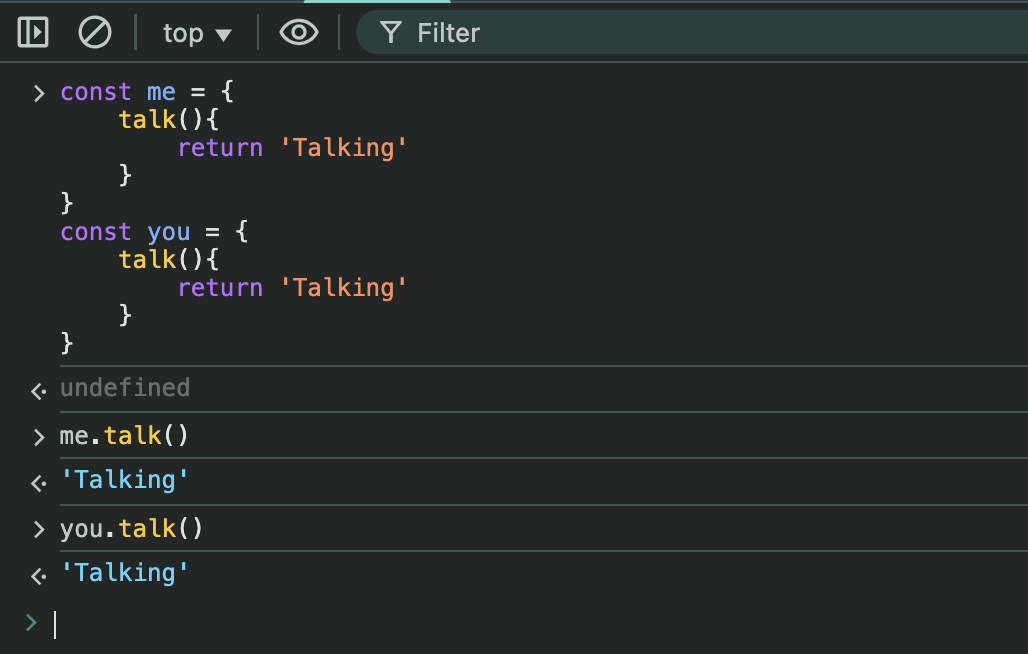
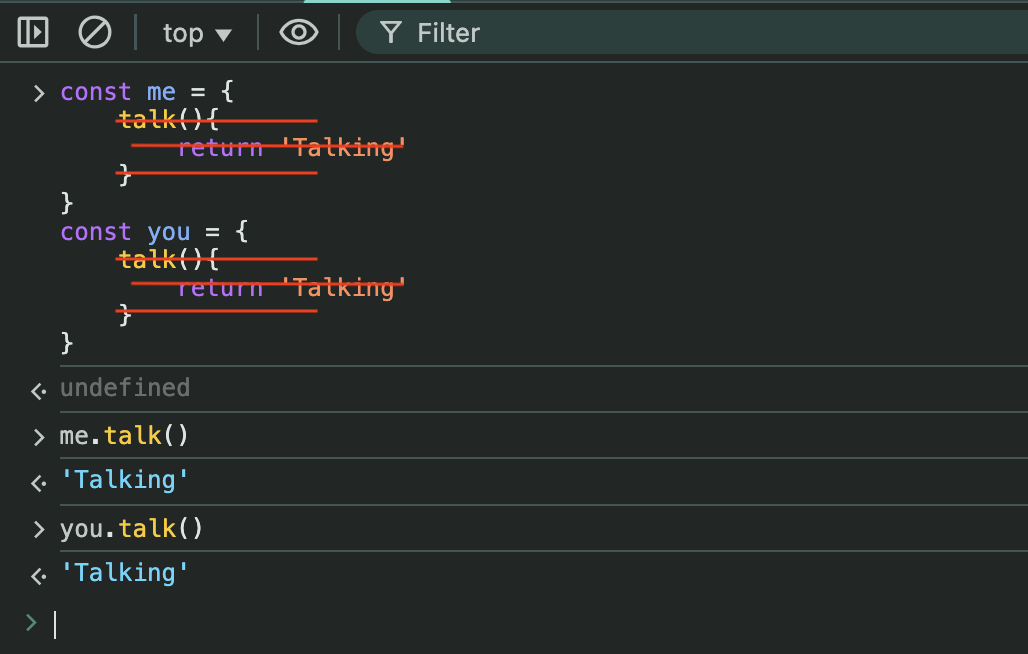
main

Changed region(s): [[0.1245, 0.1835, 0.4047, 0.2752], [0.1245, 0.4281, 0.4047, 0.4893], [0.1245, 0.367, 0.3113, 0.3976]]

diff --git a/js/core/inject-content.js b/js/core/inject-content.js
@@ -6,7 +6,7 @@ import { getLastFocusedLink, setLastCLICKEDLink,getLastCLICKEDLink } from "../na
 let lastClickedSideBarLink = null
 import { initCopyCode } from "../ui/copy-code.js";
 import { sideBarAsARRAY } from "../nav/sidebar-nav.js";
-import { initStepNav,updateSteps } from "../nav/step-nav.js";
+import { getSteps, initStepNav,updateSteps } from "../nav/step-nav.js";
 import { refreshImages } from "../ui/toggle-img-sizes.js";
 const navTitleH1 = document.querySelector('#navTitle h1')
 export const endNxtBtn = document.querySelector('#endNxtBtn')
@@ -43,33 +43,34 @@ function handleInjectContentBtnsContainer(e){
         })
     }
 }
+function handleNxtLessonBtn(key){
+    if (key === 'a') {
+        const steps = getSteps()
+        steps[steps.length - 1].focus()
+    }
+    if (key === 'f') {
+        const steps = getSteps()
+        steps[0].focus()
+    }
+    if (key === 'm') {
+        mainTargetDiv.focus()
+        document.querySelector('body').scrollTo(0, 0)
+    }
+    if (key === 'enter') {
+        mainTargetDiv.scrollTo(0, 0)
+    }
+}
 export function initInjectContentListeners(){
     endNxtBtn.addEventListener('click', handleInjectContentBtnsContainer)
     prevBtn.addEventListener('click', handleInjectContentBtnsContainer)
     // Make it so 'a' goes to steps[step.length - 1], when endNxtLesson or prevLessonBtn has focus and 'a' is pressed
     endNxtBtn.addEventListener('keydown', e => {
         const key = e.key.toLowerCase()
-        if(key === 'm'){
-            mainTargetDiv.focus()
-            document.querySelector('body').scrollTo(0,0)
-        }
-        if(key === 'enter'){
-            mainTargetDiv.scrollTo(0, 0)
-            // document.querySelector('body').scrollTo(0, 0)
-        }
-        
+        handleNxtLessonBtn(key)
     })
     prevBtn.addEventListener('keydown', e => {
         const key = e.key.toLowerCase()
-        if(key === 'm'){
-            mainTargetDiv.focus()
-            mainTargetDiv.scrollTo(0, 0)
-        }
-        if (key === 'enter') {
-            mainTargetDiv.scrollTo(0, 0)
-            // document.querySelector('body').scrollTo(0, 0)
-        }
-        
+        handleNxtLessonBtn(key)
     })
     
     let linkClicked = false

diff --git a/01-jsInheritance/side-bar-links-pages/01/01Og.html b/01-jsInheritance/side-bar-links-pages/01/01Og.html
@@ -18,19 +18,24 @@
                     </div>
                     <h4>01</h4>
                     <p>
-                       <span class="lg r">DON'T</span> <span class="md ">duplicate</span> <span class="md r">Code</span>
+                       <strong>"Inheritance"</strong> can be used with <code class="lsg">Objecs</code> and <code class="b">classes</code>
                     </p>
                     <div  class="step-txt">
-                        
+                        <p>
+                            <code class="bad">code </code> below shows inefficent code,
+                        </p>
+                        <p>
+                            <code class="bad">DON't</code> make duplicate code like the <span class="gr">talk()</span> method in both objects
+                        </p>
                         <div class="code-container ">
                             <pre tabindex="0" class="copy-code bbad">
 const <span class="lsg">me</span> = <span class="lsg">{</span>
-    <span class="line-thru r">talk(){
+    <span class="line-thru">talk(){
         return 'Talking'
     }</span>
 <span class="lsg">}</span>
 const <span class="lsg">you</span> = <span class="lsg">{</span>
-    <span class="line-thru r">talk(){
+    <span class="line-thru">talk(){
     return 'Talking'
     }</span>
 <span class="lsg">}</span></pre>
@@ -53,8 +58,9 @@ const <span class="lsg">you</span> = <span class="lsg">{</span>
                         <h4>02</h4>
                         <h5>DON'T Duplicate!</h5>
                         <p>
-                            Create <code class="gr">Classes</code> or <code class="b">objects</code> to <i>'inherit'</i>
-                            from
+                            Make a prototype (<code>object</code> or <code> class)</code> 
+                            Create <code class="gr">methods</code> and <code class="b">properties</code> and incorporate
+                            Inheritance from those prototypes into 'instances' of that classes or objects.
                         </p>
                         <h5><code class="lb">classes</code></h5>
                         <div class="code-container ">
